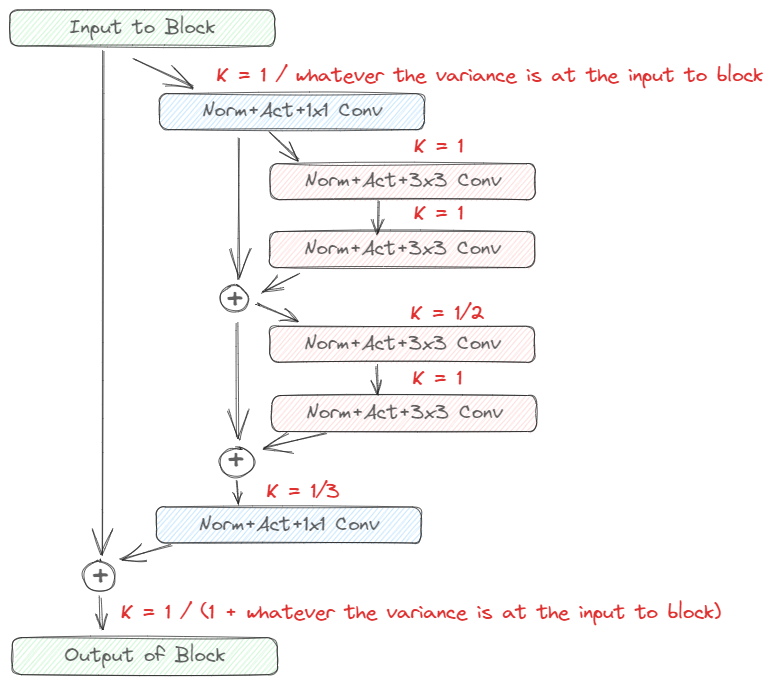
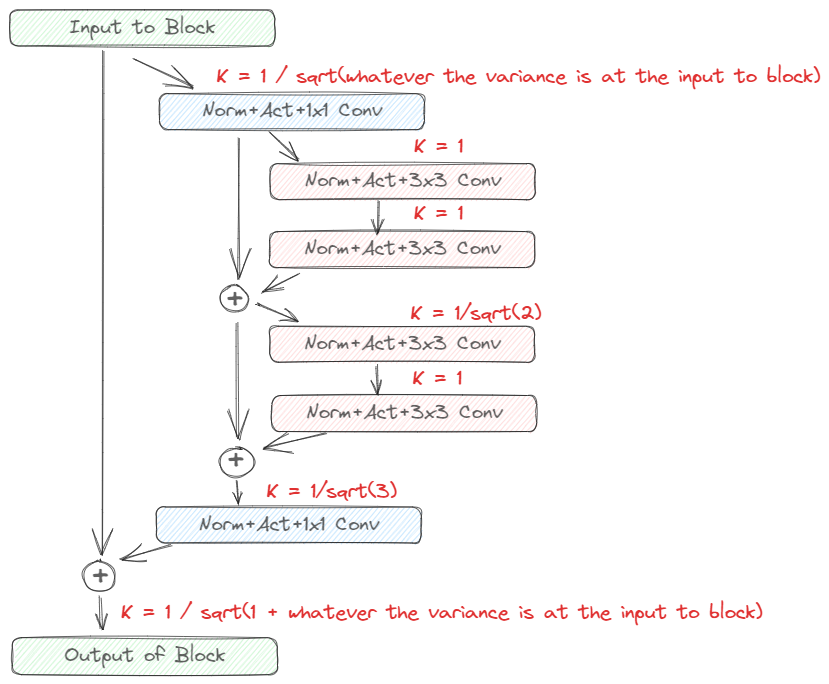
Fix missing sqrt in variance scale diagram and some other errors

Changed region(s): [[0.0, 0.0, 0.9935, 1.0], [0.6831, 0.5833, 0.7141, 0.614], [0.6831, 0.4912, 0.7141, 0.5219]]

diff --git a/docs/KataGoMethods.md b/docs/KataGoMethods.md
@@ -285,7 +285,7 @@ As intuition, consider a policy target like:
 
 Under cross entropy loss, the policy will be heavily incentivized to learn correctly-weighted predictions for A and B. However, there will be little pressure to the policy to get the weight of C and D correct vs each other and vs other moves. If the policy assigns 1% for C, 2% for D, and puts a whole 3% on some other move entirely, the loss is only barely greater than if it predicts 3% and 1% accurately for C and D.
 
-By the softer policy^(1/T) might look like:
+The softer policy^(1/T) might look like:
 
 ```
 30% A
@@ -295,7 +295,7 @@ By the softer policy^(1/T) might look like:
 <6% on a few other moves
 ```
 
-Predicting this well requires recognizing that MCTS liked C and D more than other moves, and by how much. Thanks to policy target pruning as described in [KataGo's paper](https://arxiv.org/abs/1902.10565), a lot of the low-mass moves in KataGo's policy target are not purely noise from Dirichlet noise, but rather contain meaningful information about how much MCTS liked that move. Presumably, learning to discriminate this much richer target beyond just usually predicting the best 1-2 moves helps the neural net form better internal features, improving the learning.
+Predicting this well requires recognizing that MCTS liked C and D more than other moves, and also predicting roughly by how much. Thanks to policy target pruning as described in [KataGo's paper](https://arxiv.org/abs/1902.10565), a lot of the low-mass moves in KataGo's policy target are not purely noise from Dirichlet noise, but rather contain meaningful information about how much MCTS liked that move. Presumably, learning to discriminate this much richer target beyond just usually predicting the best 1-2 moves helps the neural net form better internal features, improving the learning.
 
 KataGo currently uses T = 4 and also weights the soft policy target nominally 8 times more than the normal policy target. The 8x nominal weight compensates for the fact that after reasonably optimized, the soft policy provides much smaller gradients on average.
 
@@ -312,7 +312,7 @@ This is one of a few improvements to KataGo's neural net architecture and traini
 
 Firstly, we initialize the neural net in a manner different than Fixup:
 
-In every place in the neural net where a batch normalization layer *would* normally be inserted, we add a simple scalar multiplication by fixed layer-specific constant K. The way we determine K is to idealize every convolution-activation layer pair in the net as outputting random values with the same variance as they receive as input, assume that the variance of a sum is the sum of its variances, and assume the input of the entire net is variance 1. Then, K is the unique value such that the output of the normalization layer is variance 1.
+In every place in the neural net where a batch normalization layer *would* normally be inserted, we add a simple scalar multiplication by a fixed layer-specific constant K. The way we determine K is to idealize every convolution-activation layer pair in the net as outputting random values with the same variance as they receive as input, to assume that the variance of a sum is the sum of its variances, and to assume the input of the entire net is variance 1. Then, K is the unique value such that the output of the normalization layer is variance 1.
 
 For example, here is how the nested bottleneck residual block from above would be normalized:
 
@@ -340,13 +340,13 @@ We train an additional policy head alongside the normal policy on the exact same
 
 Specifically we weight the policy target by:
 
-```clamp(0.0, 1.0, sigmoid((z_value-1.5)/3) + sigmoid((z_score-1.5)/3)```
+```clamp(0.0, 1.0, sigmoid((z_value-1.5)/3) + sigmoid((z_score-1.5)/3))```
 
 where:
 
-```z_value = (shortterm_value_outcome - stop_grad(shortterm_value_pred)) / stop_grad(sqrt(shortterm_value_squared_error_pred) + epsilon)```
+```z_value = (shortterm_value_outcome - stop_grad(shortterm_value_pred)) / stop_grad(sqrt(shortterm_value_squared_error_pred + epsilon))```
 
-and analogously for `z_score`. The `shortterm_value_outcome` is the same roughly-6-turn (on 19x19, shorter on smaller boards) exponentially weighted short-term future MCTS value described in earlier sections, and `shortterm_value_pred` is the output of the auxiliary value head that predicts it and `shortterm_value_squared_error_pred` is the output of the auxiliary head that predicts the expected squared error. `epsilon` is a small constant to avoid division by values too close to zero.
+and analogously for `z_score`. The `shortterm_value_outcome` is the same roughly-6-turn (on 19x19, shorter on smaller boards) exponentially weighted short-term future MCTS value described in earlier sections, and `shortterm_value_pred` is the output of the auxiliary value head that predicts it and `shortterm_value_squared_error_pred` is the output of the auxiliary head that predicts the expected squared error. `epsilon` is a small constant to avoid division by values too close to zero. The two `stop_grad`s ensure that error on the optimistic policy doesn't flow backwards and cause the net to reassess what it thought the value or expected value error was.
 
 The specific formulas above are somewhat arbitrary, and the 'best' formula is unknown. The intent is to train an optimistic policy head that predicts the policy conditioned on the current player's MCTS being able to find a variation that turns out to be much better than expected. This formula gives full weight or nearly full weight to training samples where such a surprise happens, and small but nonzero weight in all other cases, which regularizes the policy to reduce to just the normal policy in cases when no surprise is possible.
 
@@ -356,6 +356,6 @@ Then, during MCTS at test-time, we use the optimistic policy for *both* sides du
 
 * Ever since the dawn of computer Chess programs back in the mid-1900s, the horizon effect has plagued computer game AIs, where the losing player will interpose many useless or even self-harming "timesuji" or horizon-delaying moves as the game starts to swing against them. Sticking their head in the sand trying to delay the inevitable. Modern AlphaZero-based programs are no exception, and the policy will in fact learn such moves in self-play. The optimistic policy may weigh these moves less since pointless delaying moves will occur much more when the player is imminently about to lose, rather than when they are imminently about to unexpectedly get a good result.
 
-* Human players familiar with solving Chess puzzles, or tsumego in Go, will understand this concept intuitively - the "toughest resistance" that you need to consider for the opponent resisting you is often NOT the line the opponent should play in a real game. Rather, the opponent should often back down after the very first move and give you what you want, to cut their losses. But the concession line is *not* the line you need to evaluate to determine whether the tactic works or not; you need to evaluate the line where both players resist and escalate, heedless of the fact that if such a line were actually played in real life (rather than only being simulated within the search), the opponent's willingness to escalate right back would be Bayesian evidence that maybe they can refute you after all. The optimistic policy may be better at solving these critical lines since on each player's turn it optimistically conditions on that player being the imminent winner and suggests moves appropriate to that optimism, rather than being inclined to concede as working a tactic it isn't sure about before it has been proven in the search.
+* Human players familiar with solving Chess puzzles, or tsumego in Go, will understand this concept intuitively - the "toughest resistance" that you need to consider for the opponent resisting you is often NOT the line the opponent should play in a real game. Rather, the opponent should often back down after the very first move and give you what you want, to cut their losses. But the concession line is *not* the line you need to evaluate to determine whether the tactic works or not; you need to evaluate the line where both players resist and escalate, heedless of the fact that if such a line were actually played in real life (rather than only being simulated within the search), the opponent's willingness to escalate right back would be Bayesian evidence that maybe they can refute you after all. The optimistic policy may be better at solving these critical lines since on each player's turn it optimistically conditions on that player being the imminent winner and suggests moves appropriate to that optimism, rather than being inclined to already concede within the search to a tactic before proving that it works.
 
 Although it would not be hard to change later, as of June 2023, the optimistic policy is *not* used during self-play since it is not clear what happens if this pretty substantial way of biasing the policy is fed back on itself - whether it is sound or whether it may lead to some convergence issues down the line.
